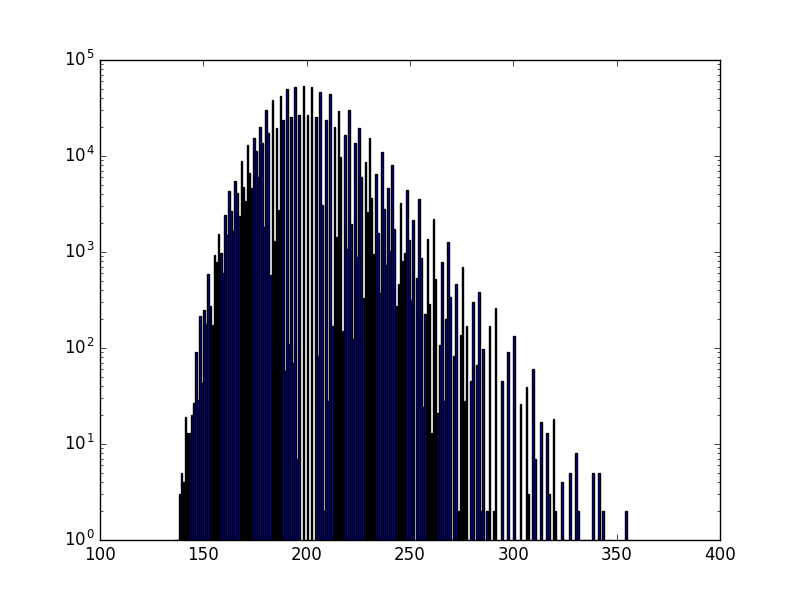
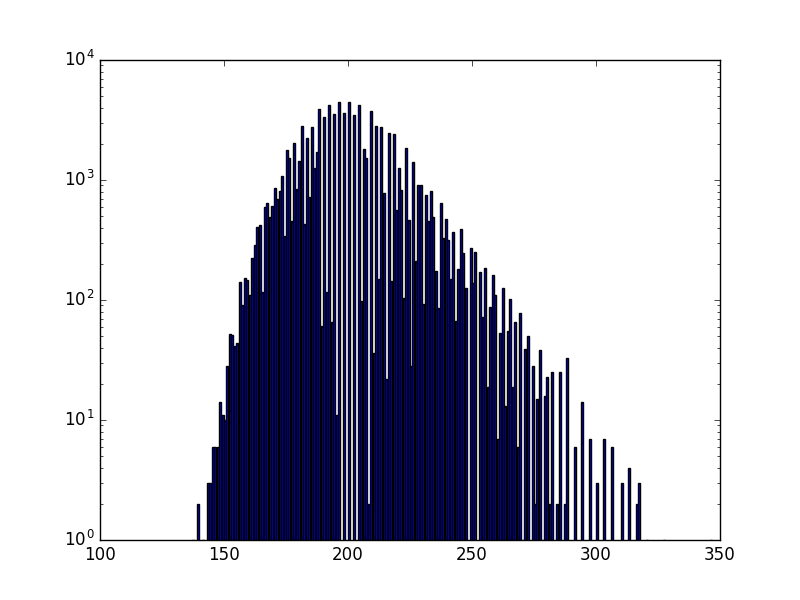
Change delimit() to be purely functional

diff --git a/coin_flips.py b/coin_flips.py
@@ -16,12 +16,10 @@ def distribution_num_heads(num_samples, num_flips_per_sample):
 
 
 def delimit(sequence_of_ones_and_zeros):
-    last_element = None
-    for index, element in enumerate(sequence_of_ones_and_zeros):
-        if last_element is not None and element != last_element:
-            yield index - 1
-        last_element = element
-    yield index
+    t = itertools.tee(sequence_of_ones_and_zeros)
+    z = zip(t[0], itertools.islice(t[1], 1, None))
+    return map(lambda pair: pair[0],
+               filter(lambda pair: pair[1][0] != pair[1][1], enumerate(z)))
 
 
 def distribution_average_repeated_result_length(num_samples, num_flips_per_sample):
@@ -42,7 +40,7 @@ def distribution_average_repeated_result_length(num_samples, num_flips_per_sampl
 
 
 def experiment_and_plot(distribution_function, num_samples, num_flips_per_sample):
-    dist = distribution_function(num_samples, num_flips_per_sample)
+    dist = list(distribution_function(num_samples, num_flips_per_sample))
     open('dist.csv', 'w').write('\n'.join(map(str, enumerate(dist))) + '\n')
     dist_non_zero = list(filter(lambda i_v: i_v[1] != 0, enumerate(dist)))
     min_x, max_x = dist_non_zero[0][0], dist_non_zero[-1][0]
@@ -53,4 +51,4 @@ def experiment_and_plot(distribution_function, num_samples, num_flips_per_sample
 
 if __name__ == '__main__':
     # print(list(delimit('11100110000')))
-    experiment_and_plot(distribution_average_repeated_result_length, 1000000, 100)
+    experiment_and_plot(distribution_average_repeated_result_length, 100000, 100)
